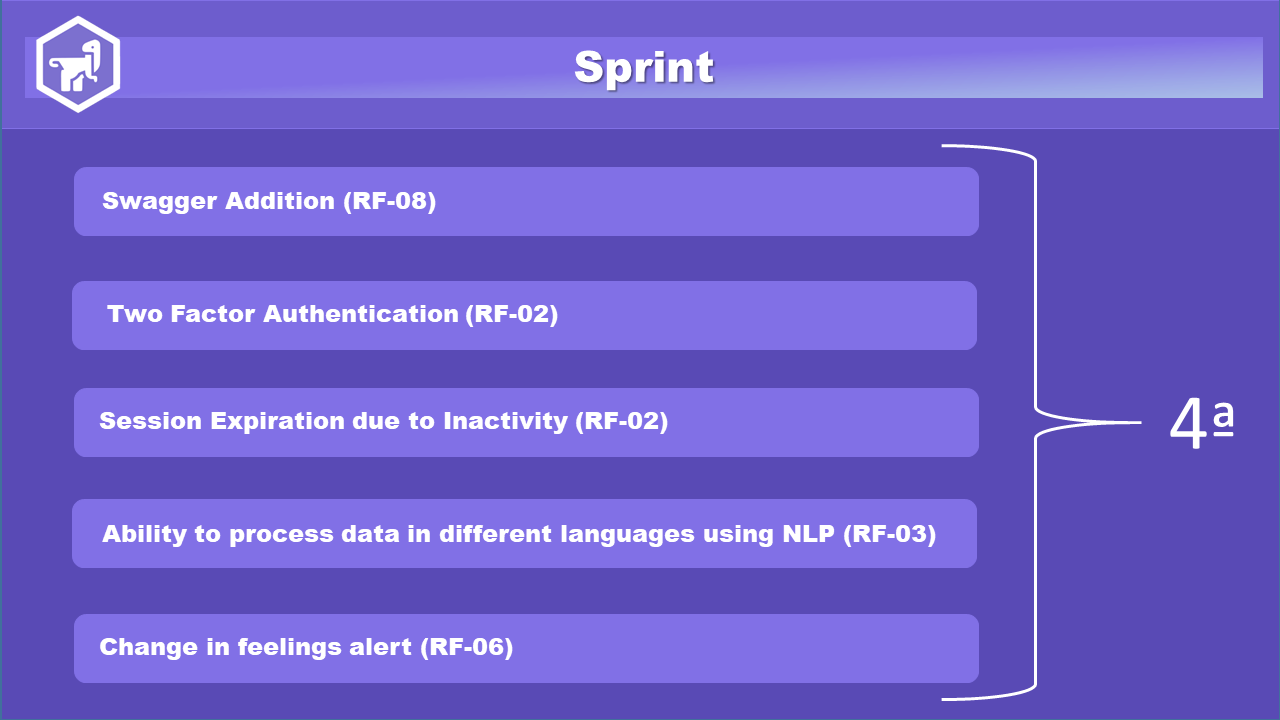
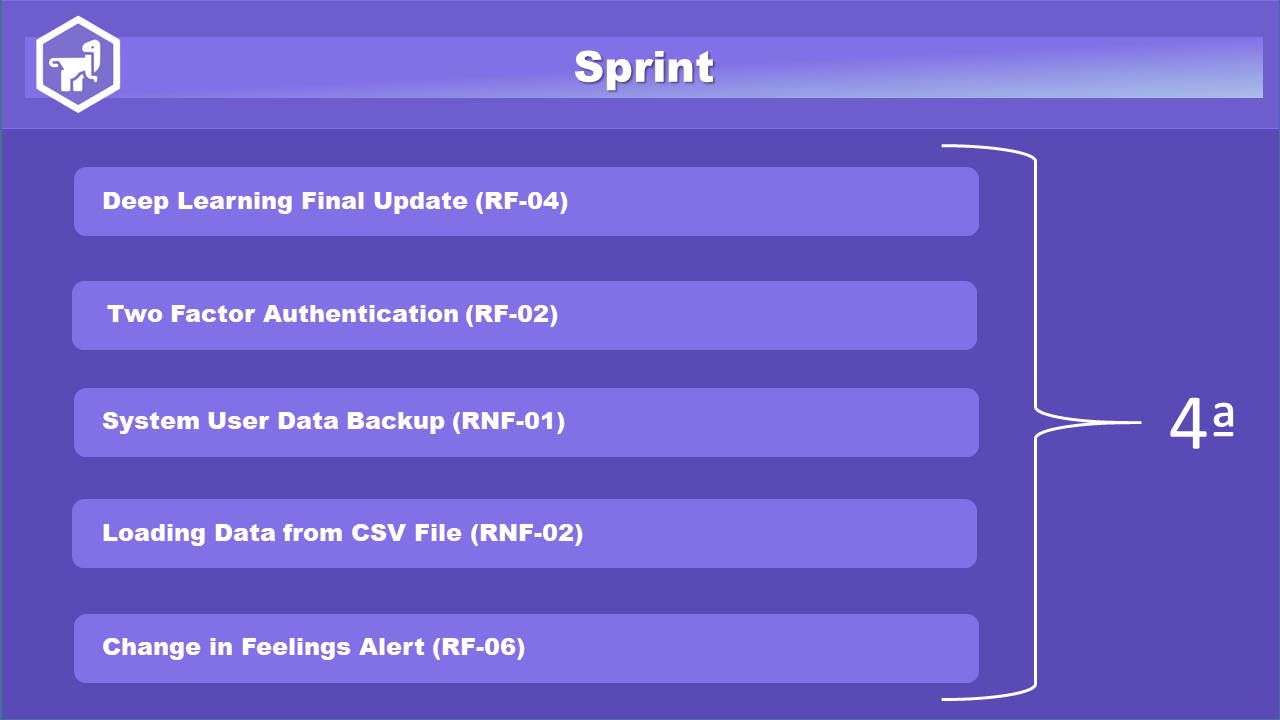
:books: docs: update product backlog sprint4

diff --git a/README.md b/README.md
@@ -154,6 +154,41 @@ It was decided that the project would be divided into 4 deliveries, throughout t
       <td>1</td>
       <td>3</td>
     </tr>
+    <tr>
+      <td>16</td>
+      <td>Médio</td>
+      <td align="justify">RF-04: As a developer, I try to keep the version of the machine learning (ML) model updated in order to provide my client with the best possible analysis experience, this being the last one for final delivery.</td>
+      <td>1</td>
+      <td>4</td>
+    </tr>
+    <tr>
+      <td>17</td>
+      <td>Médio</td>
+      <td align="justify">RF-02: As a user of the system, I want to register my phone number and  receive a security code via SMS, so that I can have an additional layer of security and thus have another way to verify my identity when accessing my account.</td>
+      <td>1</td>
+      <td>4</td>
+    </tr>
+    <tr>
+      <td>18</td>
+      <td>Médio</td>
+      <td align="justify">RF-06: As a system developer, I want to have copies of data to ensure recovery of improperly deleted data and that changes to system user information meet LGPD requirements.</td>
+      <td>1</td>
+      <td>4</td>
+    </tr>
+    <tr>
+      <td>19</td>
+      <td>Médio</td>
+      <td align="justify">RNF-02: As a user, I want to have access to a button that allows me to select a CSV file on my computer so I can import data into the application and insert it into the database and finally carry out the analysis.</td>
+      <td>1</td>
+      <td>4</td>
+    </tr>
+    <tr>
+      <td>20</td>
+      <td>Médio</td>
+      <td align="justify">RF-06: As a manager, I want to receive alerts about changes in customer sentiment patterns towards products, so I can anticipate and make the necessary adjustments to improve our customers' experience.</td>
+      <td>1</td>
+      <td>4</td>
+    </tr>
   </tbody>
 </table>
 
